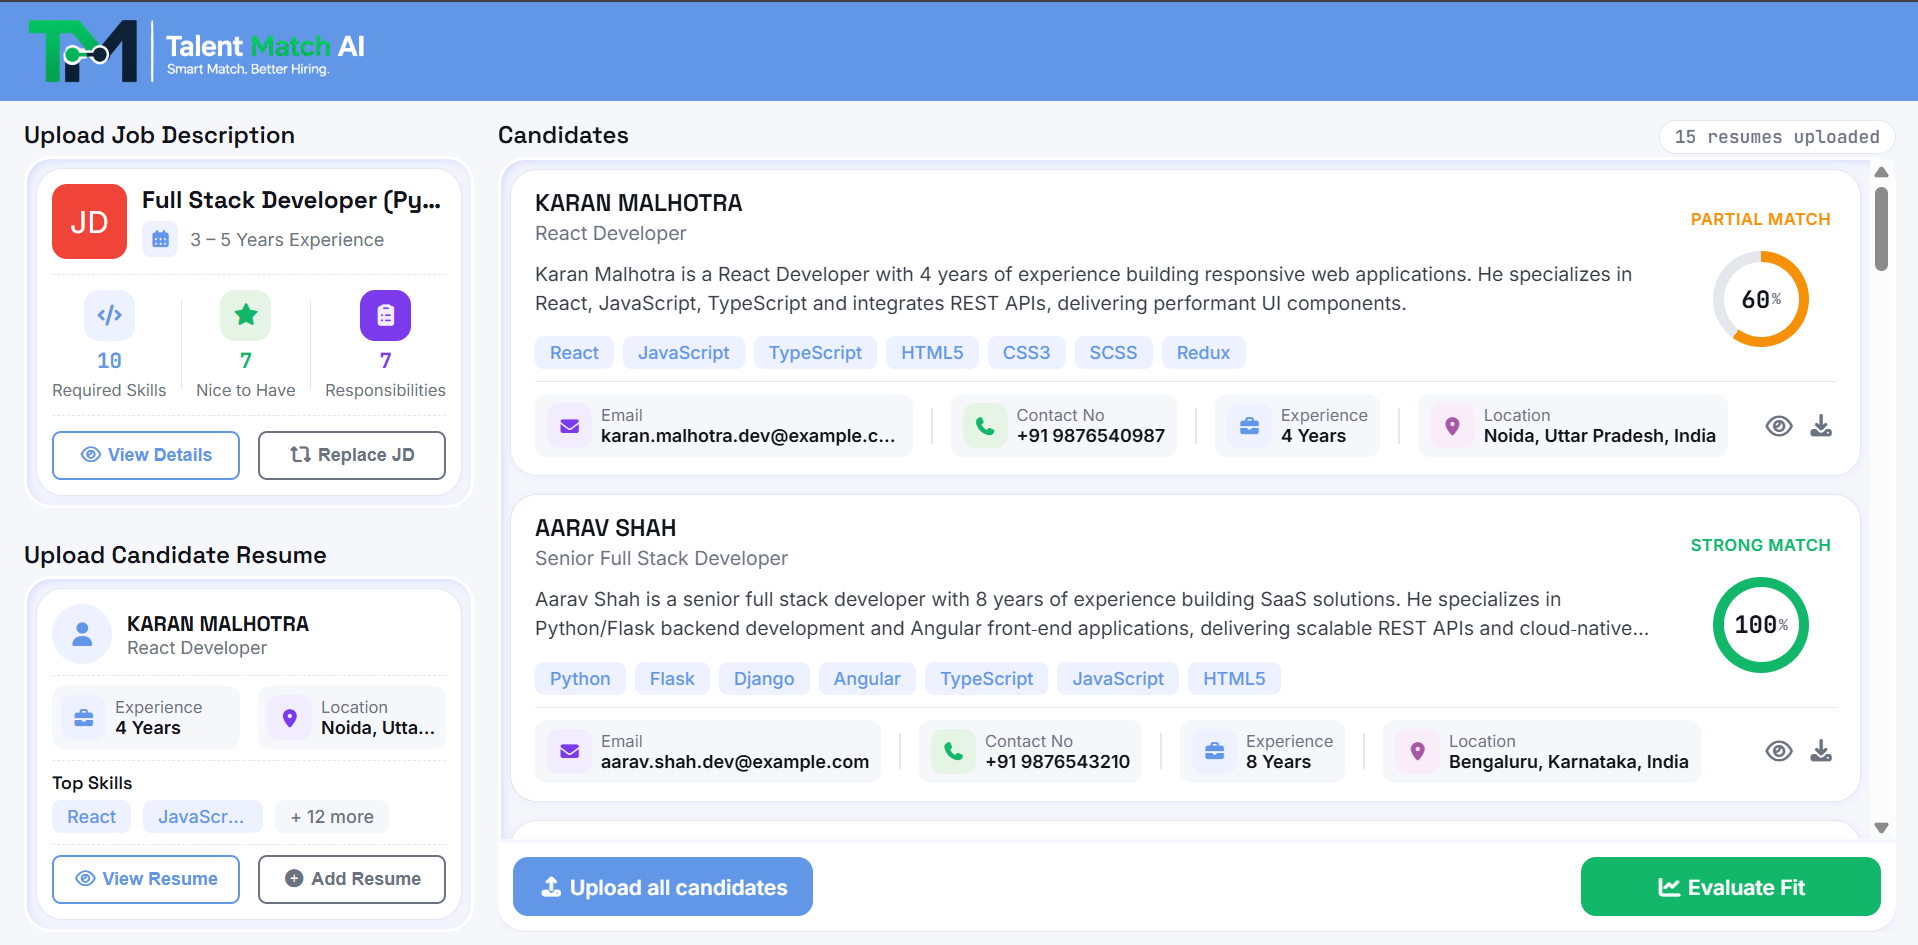
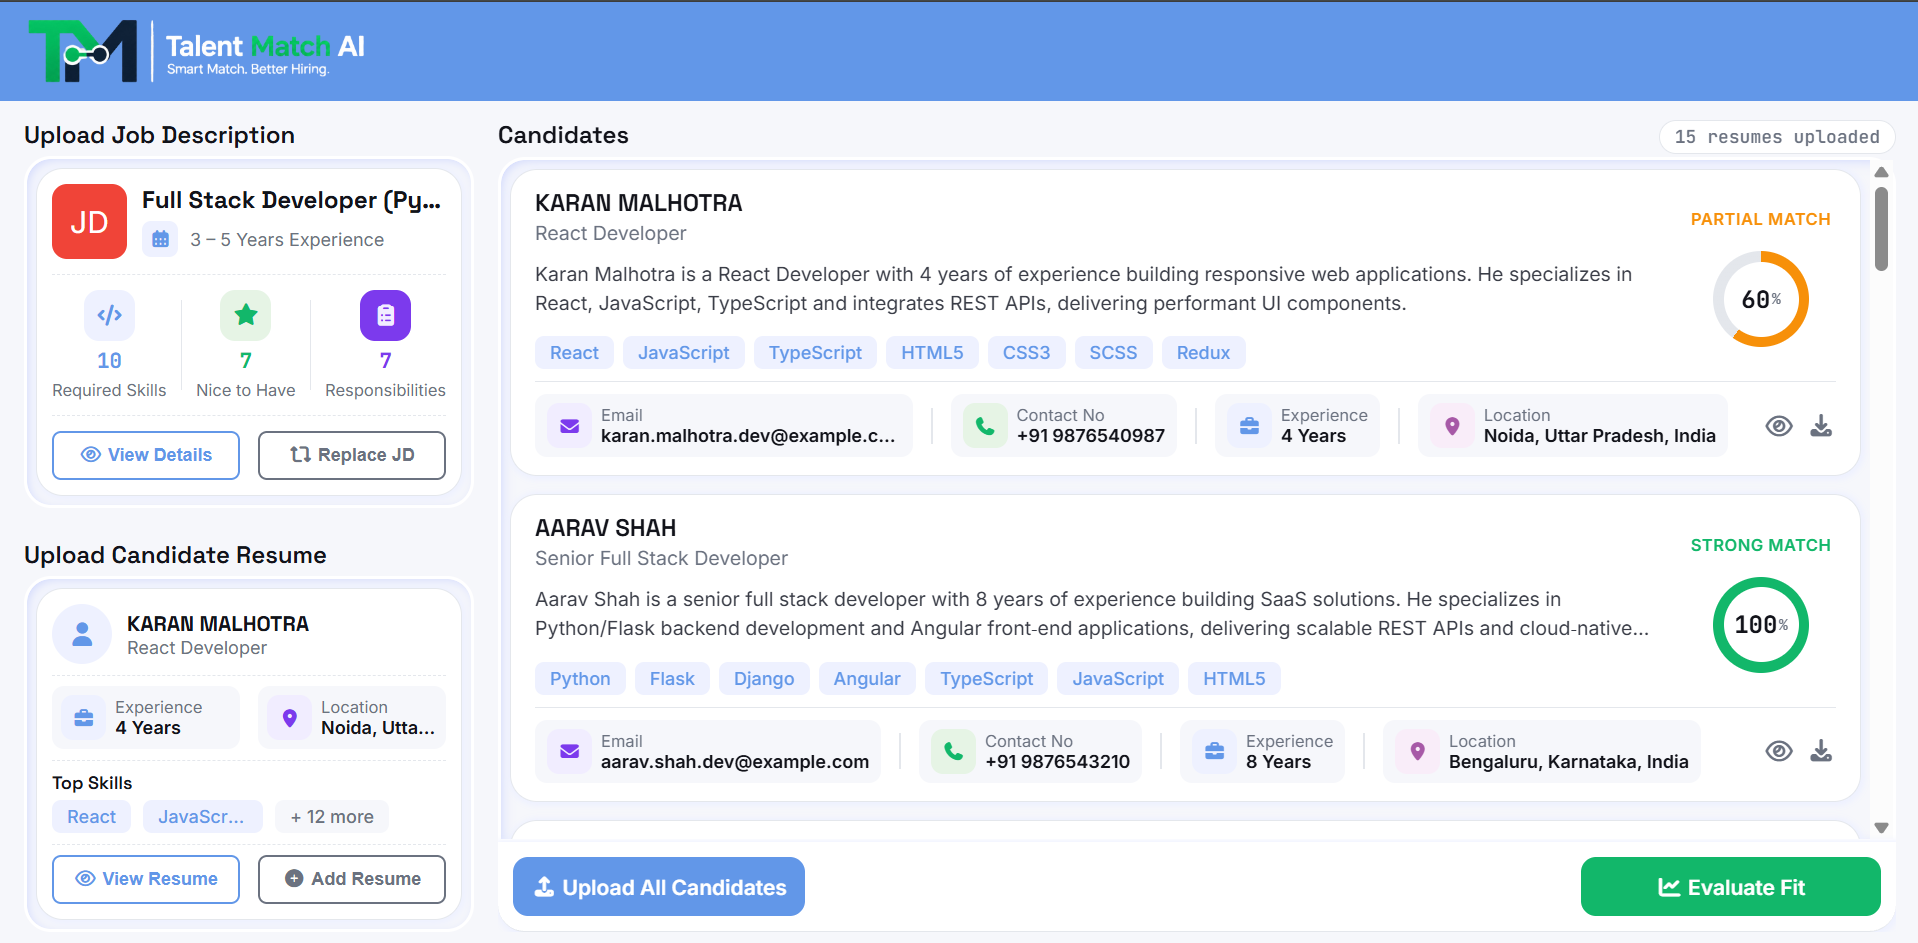
feat: update button text for clarity and adjust upload button width

diff --git a/frontend/src/app/components/candidate-list/candidate-list.component.html b/frontend/src/app/components/candidate-list/candidate-list.component.html
@@ -163,7 +163,7 @@
       (click)="uploadAllCandidateResumes()"
     >
       <i class="fa-solid fa-upload"></i>
-      {{ isBulkUploading ? 'Uploading candidates…' : 'Upload all candidates' }}
+      {{ isBulkUploading ? 'Uploading Candidates…' : 'Upload All Candidates' }}
     </button>
     <button
       class="candidate-list__match-candidate__btn"

diff --git a/frontend/src/app/components/candidate-list/candidate-list.component.scss b/frontend/src/app/components/candidate-list/candidate-list.component.scss
@@ -278,6 +278,7 @@ app-candidate-list {
 
       &--upload {
         background-color: var(--indigo);
+        width: auto;
       }
     }
   }
